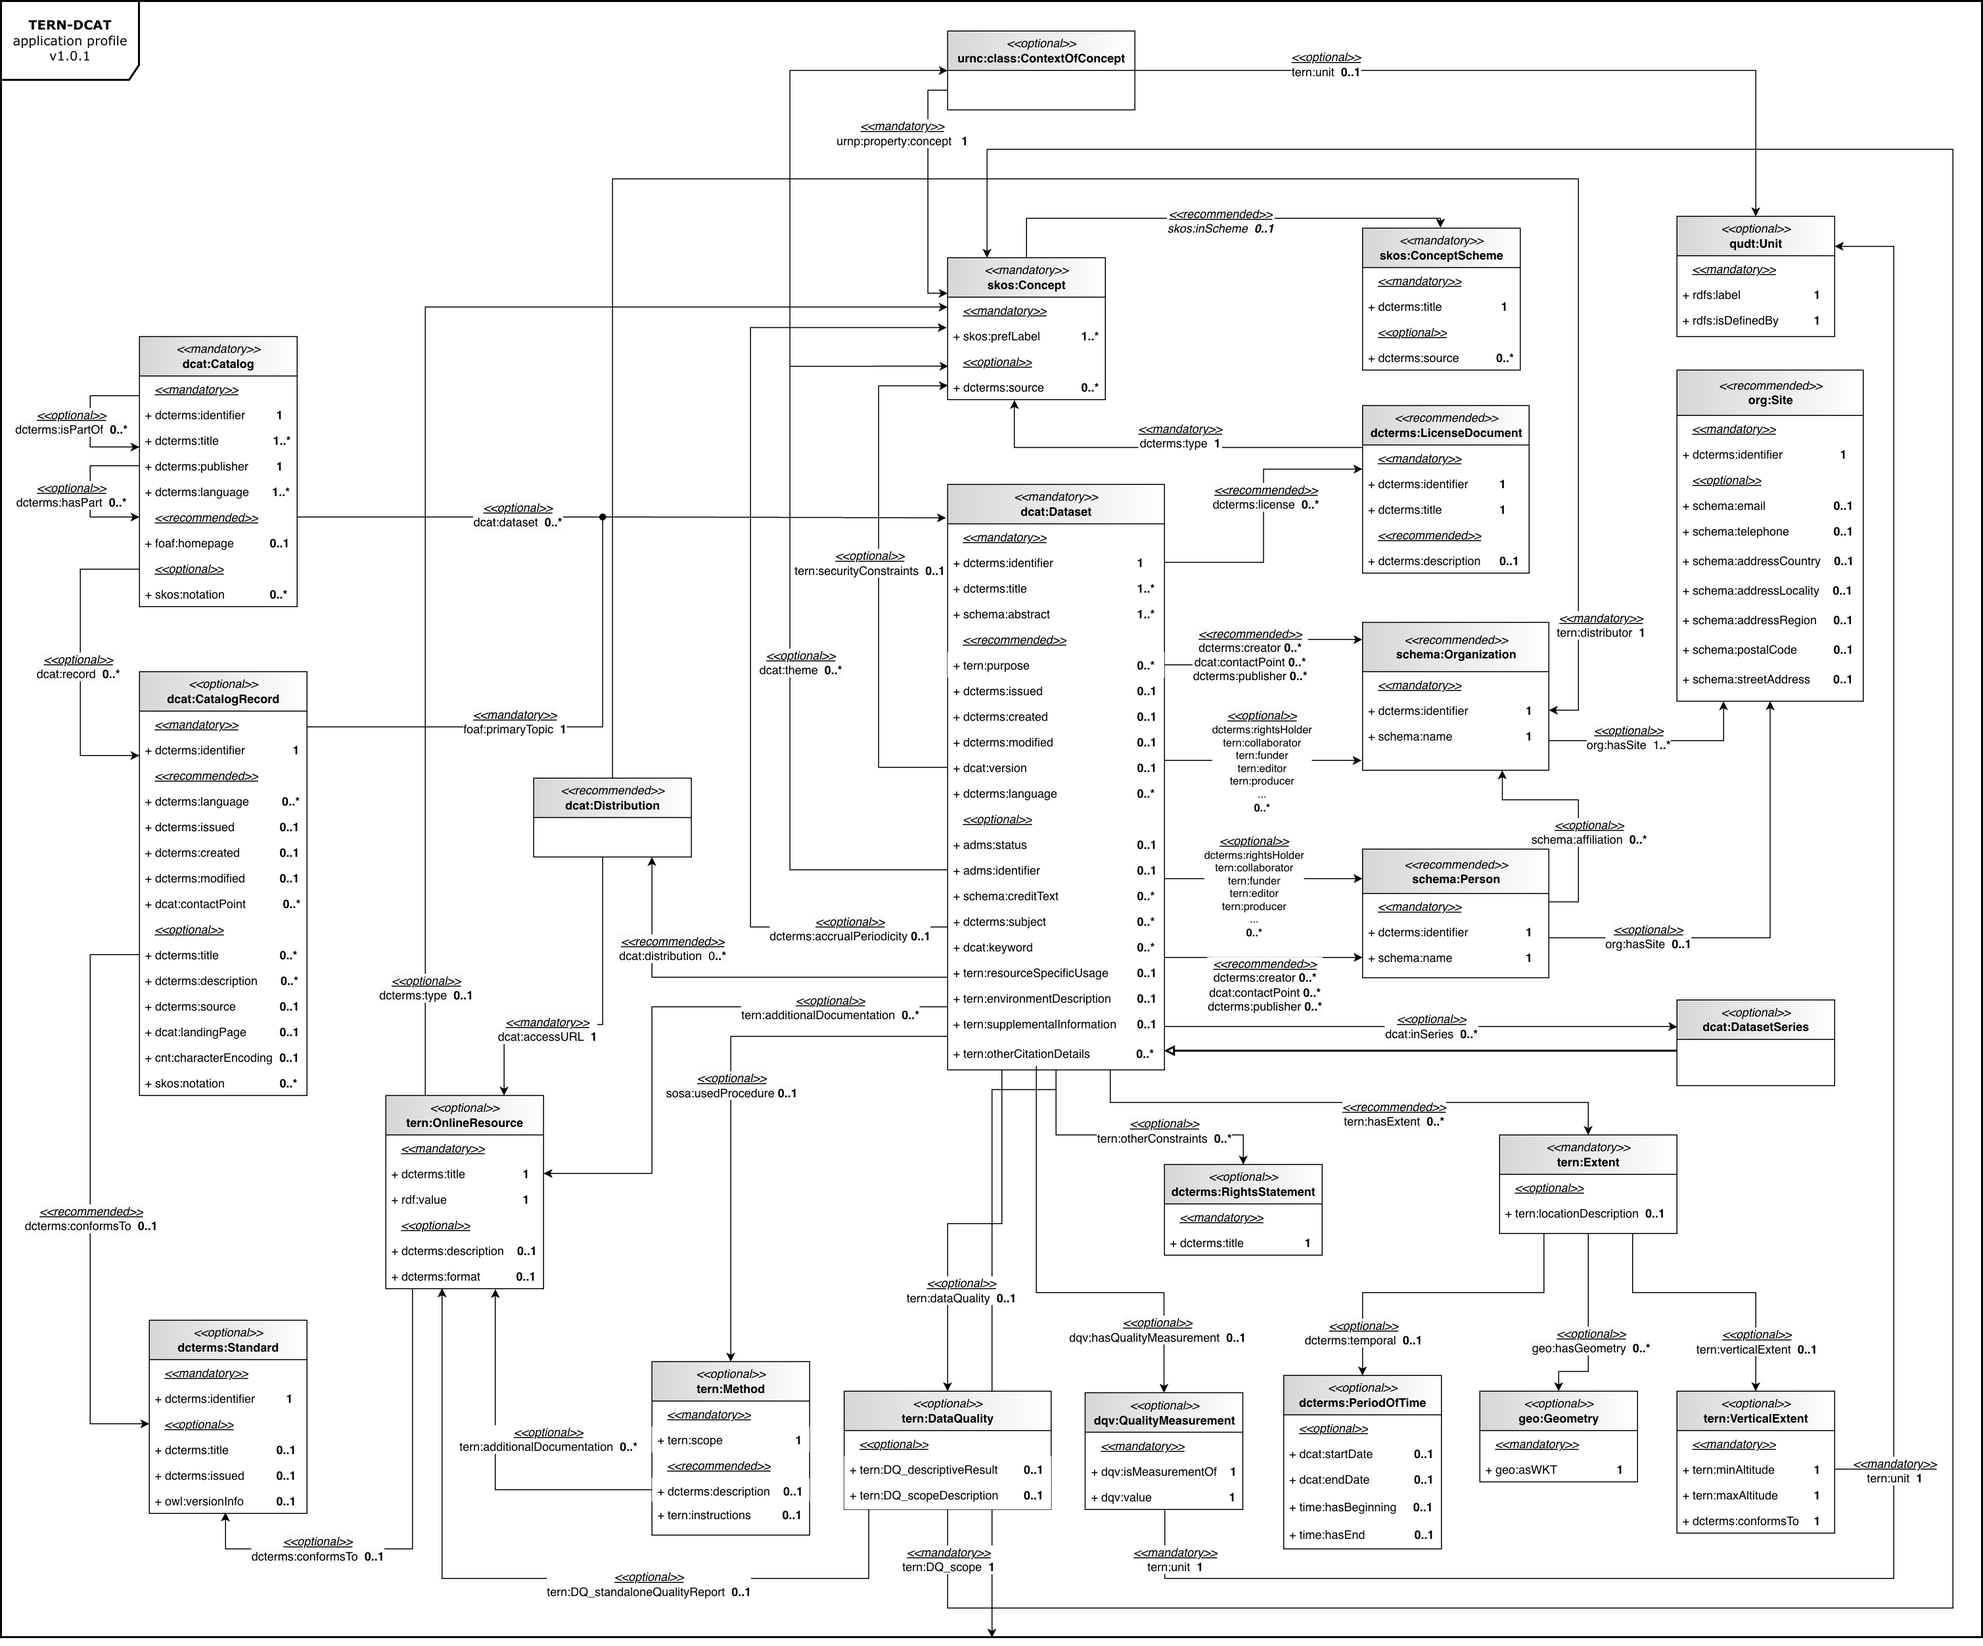
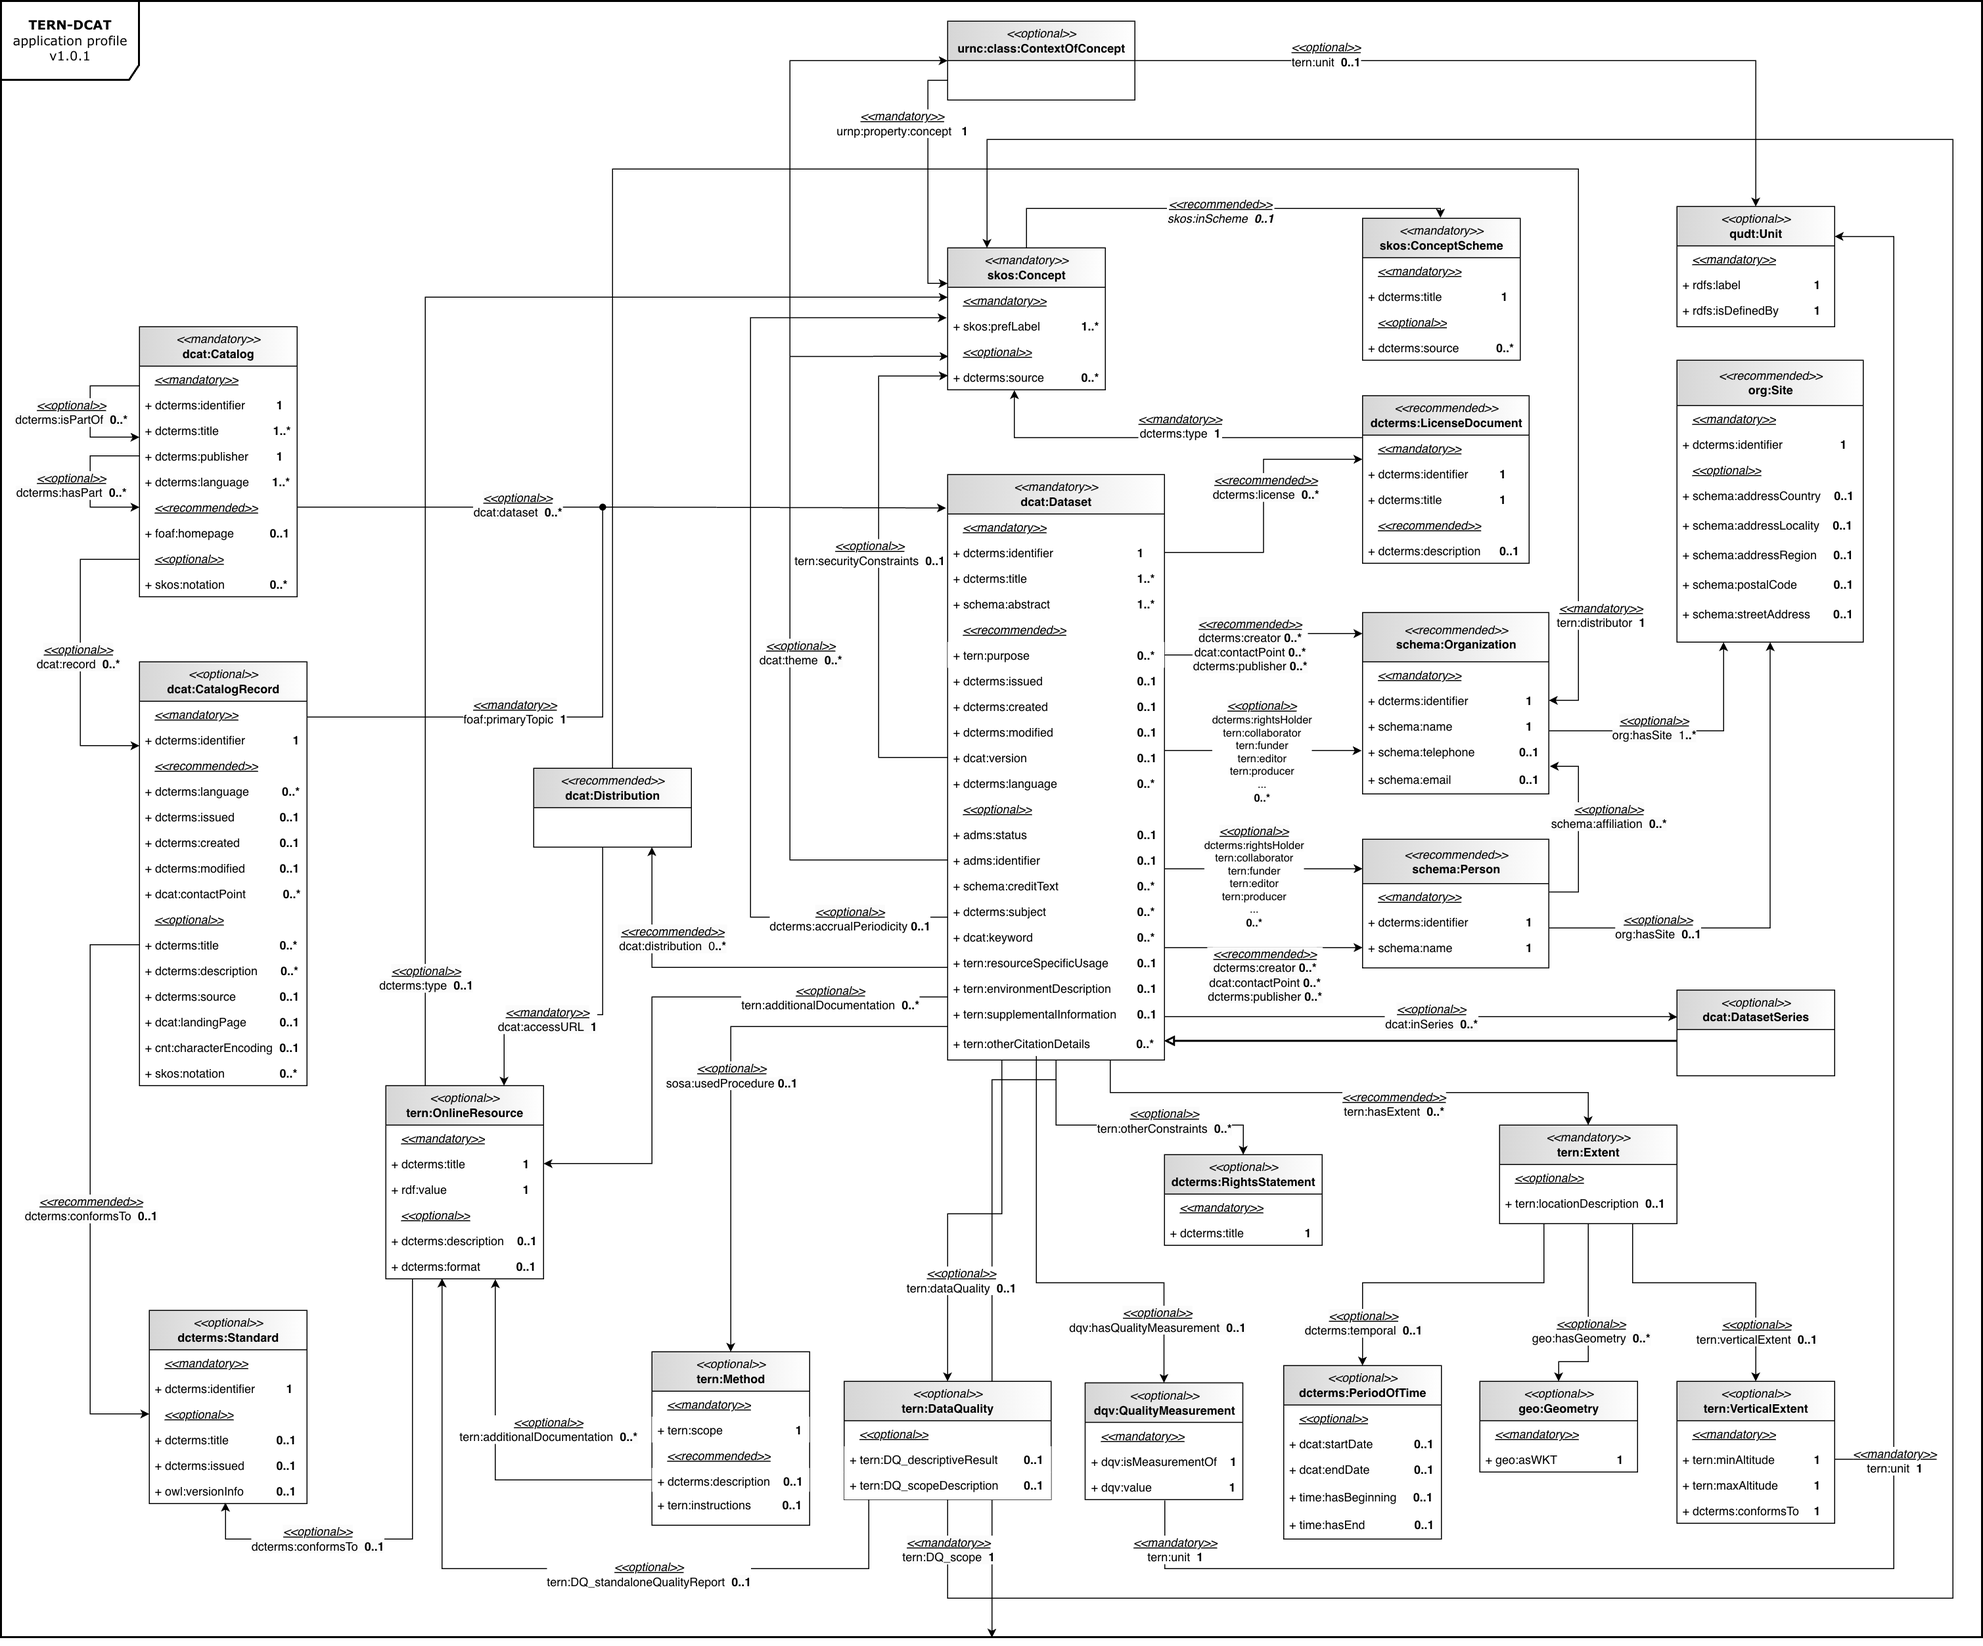
Updated schema:Organization: email and telephone back from Site to Org

diff --git a/docs/index.html b/docs/index.html
@@ -3635,9 +3635,11 @@
         <dd>
           For this entity the following properties are defined:
           <ul class="prop-list">
-            <li><a href="#Organisation.identifier">identifier</a></li>
+            <li><a href="#Organisation.email">email</a></li>
             <li><a href="#Organisation.hasSite">has site</a></li>
+            <li><a href="#Organisation.identifier">identifier</a></li>
             <li><a href="#Organisation.name">name</a></li>
+            <li><a href="#Organisation.telephone">telephone</a></li>
           </ul>
         </dd>
       </dl>
@@ -3673,17 +3675,17 @@
 
           <tbody class="supertype">
 
-            <tr id="Organisation.identifier" typeof="rdfs:Property" resource="http://purl.org/dc/terms/identifier"
+            <tr id="Organisation.email" typeof="rdfs:Property" resource="https://schema.org/email"
               class="class mandatory">
               <td>
-                <a href="http://purl.org/dc/terms/identifier" data-toggle="tooltip"
-                  data-content="http://purl.org/dc/terms/identifier" data-placement="right">
-                  identifier</a>
+                <a href="https://schema.org/email" data-toggle="tooltip" data-content="https://schema.org/email"
+                  data-placement="right">
+                  email</a>
               </td>
               <td> <a href="#Literal" data-placement="right">Literal</a> </td>
-              <td> 1 </td>
-              <td property="rdfs:comment"> An unambiguous reference to the resource within the given context of
-                Organisation. </td>
+              <td> 0..1 </td>
+              <td property="rdfs:comment"> The email address of the entity, specified using fully qualified mailto: URI
+                scheme [[?RFC6068]]. </td>
               <td property="skos:scopeNote"> </td>
               <td> </td>
               <td> P </td>
@@ -3704,6 +3706,22 @@
               <td> P </td>
             </tr>
 
+            <tr id="Organisation.identifier" typeof="rdfs:Property" resource="http://purl.org/dc/terms/identifier"
+              class="class mandatory">
+              <td>
+                <a href="http://purl.org/dc/terms/identifier" data-toggle="tooltip"
+                  data-content="http://purl.org/dc/terms/identifier" data-placement="right">
+                  identifier</a>
+              </td>
+              <td> <a href="#Literal" data-placement="right">Literal</a> </td>
+              <td> 1 </td>
+              <td property="rdfs:comment"> An unambiguous reference to the resource within the given context of
+                Organisation. </td>
+              <td property="skos:scopeNote"> </td>
+              <td> </td>
+              <td> P </td>
+            </tr>
+
             <tr id="Organisation.name" typeof="rdfs:Property" resource="https://schema.org/name"
               class="class mandatory">
               <td>
@@ -3714,6 +3732,22 @@
               <td> <a href="#Literal" data-placement="right">Literal</a> </td>
               <td> 1 </td>
               <td property="rdfs:comment"> A name of the entity. </td>
+              <td property="skos:scopeNote"> </td>
+              <td> </td>
+              <td> P </td>
+            </tr>
+
+            <tr id="Organisation.telephone" typeof="rdfs:Property" resource="https://schema.org/telephone"
+              class="class mandatory">
+              <td>
+                <a href="https://schema.org/telephone" data-toggle="tooltip" data-content="https://schema.org/telephone"
+                  data-placement="right">
+                  telephone</a>
+              </td>
+              <td> <a href="#Literal" data-placement="right">Literal</a> </td>
+              <td> 0..1 </td>
+              <td property="rdfs:comment"> The phone number of the entity, specified using fully qualified tel: URI
+                scheme [[?RFC3966]]. </td>
               <td property="skos:scopeNote"> </td>
               <td> </td>
               <td> P </td>
@@ -3732,18 +3766,18 @@
             &lt;ex_organisation_1&gt; a schema:Organization ;
                 dcterms:identifier &quot;https://w3id.org/tern/resources/a083902d-d821-41be-b663-1d7cb33eea66&quot;^^xsd:anyURI ;
                 org:hasSite &lt;ex_org_site_1&gt; ;
-                schema:name &quot;Terrestrial Ecosystem Research Network&quot; .
+                schema:name &quot;Terrestrial Ecosystem Research Network&quot; ;
+                schema:telephone &quot;+61 7 3365 9097&quot; ;
+                schema:email &quot;esupport@tern.org.au&quot; .
                 
             &lt;ex_org_site_1&gt; a org:Site ;
                 dcterms:identifier &quot;https://w3id.org/tern/resources/a083902d-d821-41be-b663-1d7cb33eea66&quot;^^xsd:anyURI ;
                 schema:addressCountry &quot;Australia&quot; ;
                 schema:addressLocality &quot;Indooroopilly&quot; ;
                 schema:addressRegion &quot;QLD&quot; ;
-                schema:email &quot;esupport@tern.org.au&quot; ;
                 schema:name &quot;UQ Long Pocket campus&quot; ;
                 schema:postalCode &quot;4068&quot; ;
-                schema:streetAddress &quot;Building 1019, 80 Meiers Rd&quot; ;
-                schema:telephone &quot;+61 7 3365 9097&quot; .
+                schema:streetAddress &quot;Building 1019, 80 Meiers Rd&quot; .
           </pre>
         </aside>
 
@@ -4259,14 +4293,12 @@
           For this entity the following properties are defined:
           <ul class="prop-list">
             <li><a href="#Site.country">country</a></li>
-            <li><a href="#Site.email">email</a></li>
             <li><a href="#Site.identifier">identifier</a></li>
             <li><a href="#Site.locality">locality</a></li>
             <li><a href="#Site.name">name</a></li>
             <li><a href="#Site.postalCode">postal code</a></li>
             <li><a href="#Site.region">region</a></li>
             <li><a href="#Site.streetAddress">street address</a></li>
-            <li><a href="#Site.telephone">telephone</a></li>
           </ul>
         </dd>
       </dl>
@@ -4317,20 +4349,7 @@
               <td> P </td>
             </tr>
 
-            <tr id="Site.email" typeof="rdfs:Property" resource="https://schema.org/email" class="class mandatory">
-              <td>
-                <a href="https://schema.org/email" data-toggle="tooltip" data-content="https://schema.org/email"
-                  data-placement="right">
-                  email</a>
-              </td>
-              <td> <a href="#Literal" data-placement="right">Literal</a> </td>
-              <td> 0..1 </td>
-              <td property="rdfs:comment"> The email address of the entity, specified using fully qualified mailto: URI
-                scheme [[?RFC6068]]. </td>
-              <td property="skos:scopeNote"> </td>
-              <td> </td>
-              <td> P </td>
-            </tr>
+
 
             <tr id="Site.identifier" typeof="rdfs:Property" resource="http://purl.org/dc/terms/identifier"
               class="class mandatory">
@@ -4422,22 +4441,6 @@
               <td> P </td>
             </tr>
 
-            <tr id="Site.telephone" typeof="rdfs:Property" resource="https://schema.org/telephone"
-              class="class mandatory">
-              <td>
-                <a href="https://schema.org/telephone" data-toggle="tooltip" data-content="https://schema.org/telephone"
-                  data-placement="right">
-                  telephone</a>
-              </td>
-              <td> <a href="#Literal" data-placement="right">Literal</a> </td>
-              <td> 0..1 </td>
-              <td property="rdfs:comment"> The phone number of the entity, specified using fully qualified tel: URI
-                scheme [[?RFC3966]]. </td>
-              <td property="skos:scopeNote"> </td>
-              <td> </td>
-              <td> P </td>
-            </tr>
-
           </tbody>
         </table>
 
@@ -4451,18 +4454,18 @@
             &lt;ex_organisation_1&gt; a schema:Organization ;
                 dcterms:identifier &quot;https://w3id.org/tern/resources/a083902d-d821-41be-b663-1d7cb33eea66&quot;^^xsd:anyURI ;
                 org:hasSite &lt;ex_org_site_1&gt; ;
-                schema:name &quot;Terrestrial Ecosystem Research Network&quot; .
+                schema:name &quot;Terrestrial Ecosystem Research Network&quot; ;
+                schema:telephone &quot;+61 7 3365 9097&quot; ;
+                schema:email &quot;esupport@tern.org.au&quot; .
 
             &lt;ex_org_site_1&gt; a org:Site ;
                 dcterms:identifier &quot;https://w3id.org/tern/resources/a083902d-d821-41be-b663-1d7cb33eea66&quot;^^xsd:anyURI ;
                 schema:addressCountry &quot;Australia&quot; ;
                 schema:addressLocality &quot;Indooroopilly&quot; ;
-                schema:addressRegion &quot;QLD&quot; ;
-                schema:email &quot;esupport@tern.org.au&quot; ;
+                schema:addressRegion &quot;QLD&quot; ;                
                 schema:name &quot;UQ Long Pocket campus&quot; ;
                 schema:postalCode &quot;4068&quot; ;
-                schema:streetAddress &quot;Building 1019, 80 Meiers Rd&quot; ;
-                schema:telephone &quot;+61 7 3365 9097&quot; .
+                schema:streetAddress &quot;Building 1019, 80 Meiers Rd&quot; .
           </pre>
         </aside>
 
@@ -6499,18 +6502,18 @@
             &lt;https://w3id.org/tern/resources/a083902d-d821-41be-b663-1d7cb33eea66&gt; a schema:Organization ;
                 dcterms:identifier &quot;https://w3id.org/tern/resources/a083902d-d821-41be-b663-1d7cb33eea66&quot;^^xsd:anyURI ;
                 org:hasSite &lt;ex_org_site_1&gt; ;
-                schema:name &quot;Terrestrial Ecosystem Research Network&quot; .
+                schema:name &quot;Terrestrial Ecosystem Research Network&quot; ;
+                schema:telephone &quot;+61 7 3365 9097&quot; ;
+                schema:email &quot;esupport@tern.org.au&quot; .
                 
             &lt;ex_org_site_1&gt; a org:Site ;
                 dcterms:identifier &quot;https://w3id.org/tern/resources/a083902d-d821-41be-b663-1d7cb33eea66&quot;^^xsd:anyURI ;
                 schema:addressCountry &quot;Australia&quot; ;
                 schema:addressLocality &quot;Indooroopilly&quot; ;
                 schema:addressRegion &quot;QLD&quot; ;
-                schema:email &quot;esupport@tern.org.au&quot; ;
                 schema:name &quot;UQ Long Pocket campus&quot; ;
                 schema:postalCode &quot;4068&quot; ;
-                schema:streetAddress &quot;Building 1019, 80 Meiers Rd&quot; ;
-                schema:telephone &quot;+61 7 3365 9097&quot; .
+                schema:streetAddress &quot;Building 1019, 80 Meiers Rd&quot; .
           </pre>
 
           <p>Resource metadata in ISO 19115-3:</p>
@@ -6593,18 +6596,18 @@
             &lt;https://w3id.org/tern/resources/a083902d-d821-41be-b663-1d7cb33eea66&gt; a schema:Organization ;
                 dcterms:identifier &quot;https://w3id.org/tern/resources/a083902d-d821-41be-b663-1d7cb33eea66&quot;^^xsd:anyURI ;
                 org:hasSite &lt;ex_org_site_1&gt; ;
-                schema:name &quot;Terrestrial Ecosystem Research Network&quot; .
+                schema:name &quot;Terrestrial Ecosystem Research Network&quot; ;
+                schema:telephone &quot;+61 7 3365 9097&quot; ;
+                schema:email &quot;esupport@tern.org.au&quot; .
                 
             &lt;ex_org_site_1&gt; a org:Site ;
                 dcterms:identifier &quot;https://w3id.org/tern/resources/a083902d-d821-41be-b663-1d7cb33eea66&quot;^^xsd:anyURI ;
                 schema:addressCountry &quot;Australia&quot; ;
                 schema:addressLocality &quot;Indooroopilly&quot; ;
                 schema:addressRegion &quot;QLD&quot; ;
-                schema:email &quot;esupport@tern.org.au&quot; ;
                 schema:name &quot;UQ Long Pocket campus&quot; ;
                 schema:postalCode &quot;4068&quot; ;
-                schema:streetAddress &quot;Building 1019, 80 Meiers Rd&quot; ;
-                schema:telephone &quot;+61 7 3365 9097&quot; .
+                schema:streetAddress &quot;Building 1019, 80 Meiers Rd&quot; .
           </pre>
 
           <p>Resource metadata in ISO 19115-3:</p>
@@ -6715,14 +6718,14 @@
             &lt;https://w3id.org/tern/resources/0532d6cd-c791-41c3-a4gb-99ak6db8a571&gt; a schema:Organization ;
                 dcterms:identifier &quot;https://w3id.org/tern/resources/0532d6cd-c791-41c3-a4gb-99ak6db8a571&quot;^^xsd:anyURI ;
                 org:hasSite &lt;ex_org_site_2&gt; ;
-                schema:name &quot;Charles Darwin University&quot; .
+                schema:name &quot;Charles Darwin University&quot; ;
+                schema:email &quot;study@cdu.edu.au&quot; .
 
             &lt;ex_org_site_2&gt; a org:Site ;
                 dcterms:identifier &quot;https://w3id.org/tern/resources/0532d6cd-c791-41c3-a4gb-99ak6db8a571&quot;^^xsd:anyURI ;
                 schema:addressCountry &quot;Australia&quot; ;
                 schema:addressLocality &quot;Casuarina&quot; ;
                 schema:addressRegion &quot;Northern Territory&quot; ;
-                schema:email &quot;study@cdu.edu.au&quot; ;
                 schema:name &quot;Charles Darwin University&quot; ;
                 schema:postalCode &quot;0810&quot; ;
                 schema:streetAddress &quot;Ellengowan Drive, Casuarina, Northern Territory, 0810, Australia&quot; .
@@ -6821,18 +6824,18 @@
             &lt;https://w3id.org/tern/resources/a083902d-d821-41be-b663-1d7cb33eea66&gt; a schema:Organization ;
                 dcterms:identifier &quot;https://w3id.org/tern/resources/a083902d-d821-41be-b663-1d7cb33eea66&quot;^^xsd:anyURI ;
                 org:hasSite &lt;ex_org_site_1&gt; ;
-                schema:name &quot;Terrestrial Ecosystem Research Network&quot; .
+                schema:name &quot;Terrestrial Ecosystem Research Network&quot; ;
+                schema:telephone &quot;+61 7 3365 9097&quot; ;
+                schema:email &quot;esupport@tern.org.au&quot; .
                 
             &lt;ex_org_site_1&gt; a org:Site ;
                 dcterms:identifier &quot;https://w3id.org/tern/resources/a083902d-d821-41be-b663-1d7cb33eea66&quot;^^xsd:anyURI ;
                 schema:addressCountry &quot;Australia&quot; ;
                 schema:addressLocality &quot;Indooroopilly&quot; ;
                 schema:addressRegion &quot;QLD&quot; ;
-                schema:email &quot;esupport@tern.org.au&quot; ;
                 schema:name &quot;UQ Long Pocket campus&quot; ;
                 schema:postalCode &quot;4068&quot; ;
-                schema:streetAddress &quot;Building 1019, 80 Meiers Rd&quot; ;
-                schema:telephone &quot;+61 7 3365 9097&quot; .
+                schema:streetAddress &quot;Building 1019, 80 Meiers Rd&quot; .
           </pre>
 
           <p>Resource metadata in ISO 19115-3:</p>
